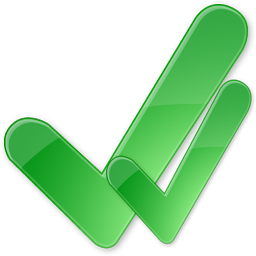
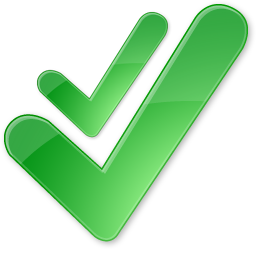
up

diff --git a/WebContent/style/contact.css b/WebContent/style/contact.css
@@ -71,7 +71,7 @@
 }
 
 .contactWrapperNoHover .contactImg{
-	background: url("../img/blocked.png");
+	background: url("../img/msgUnApproved.png");
 	background-size: 100%;
 }
 
